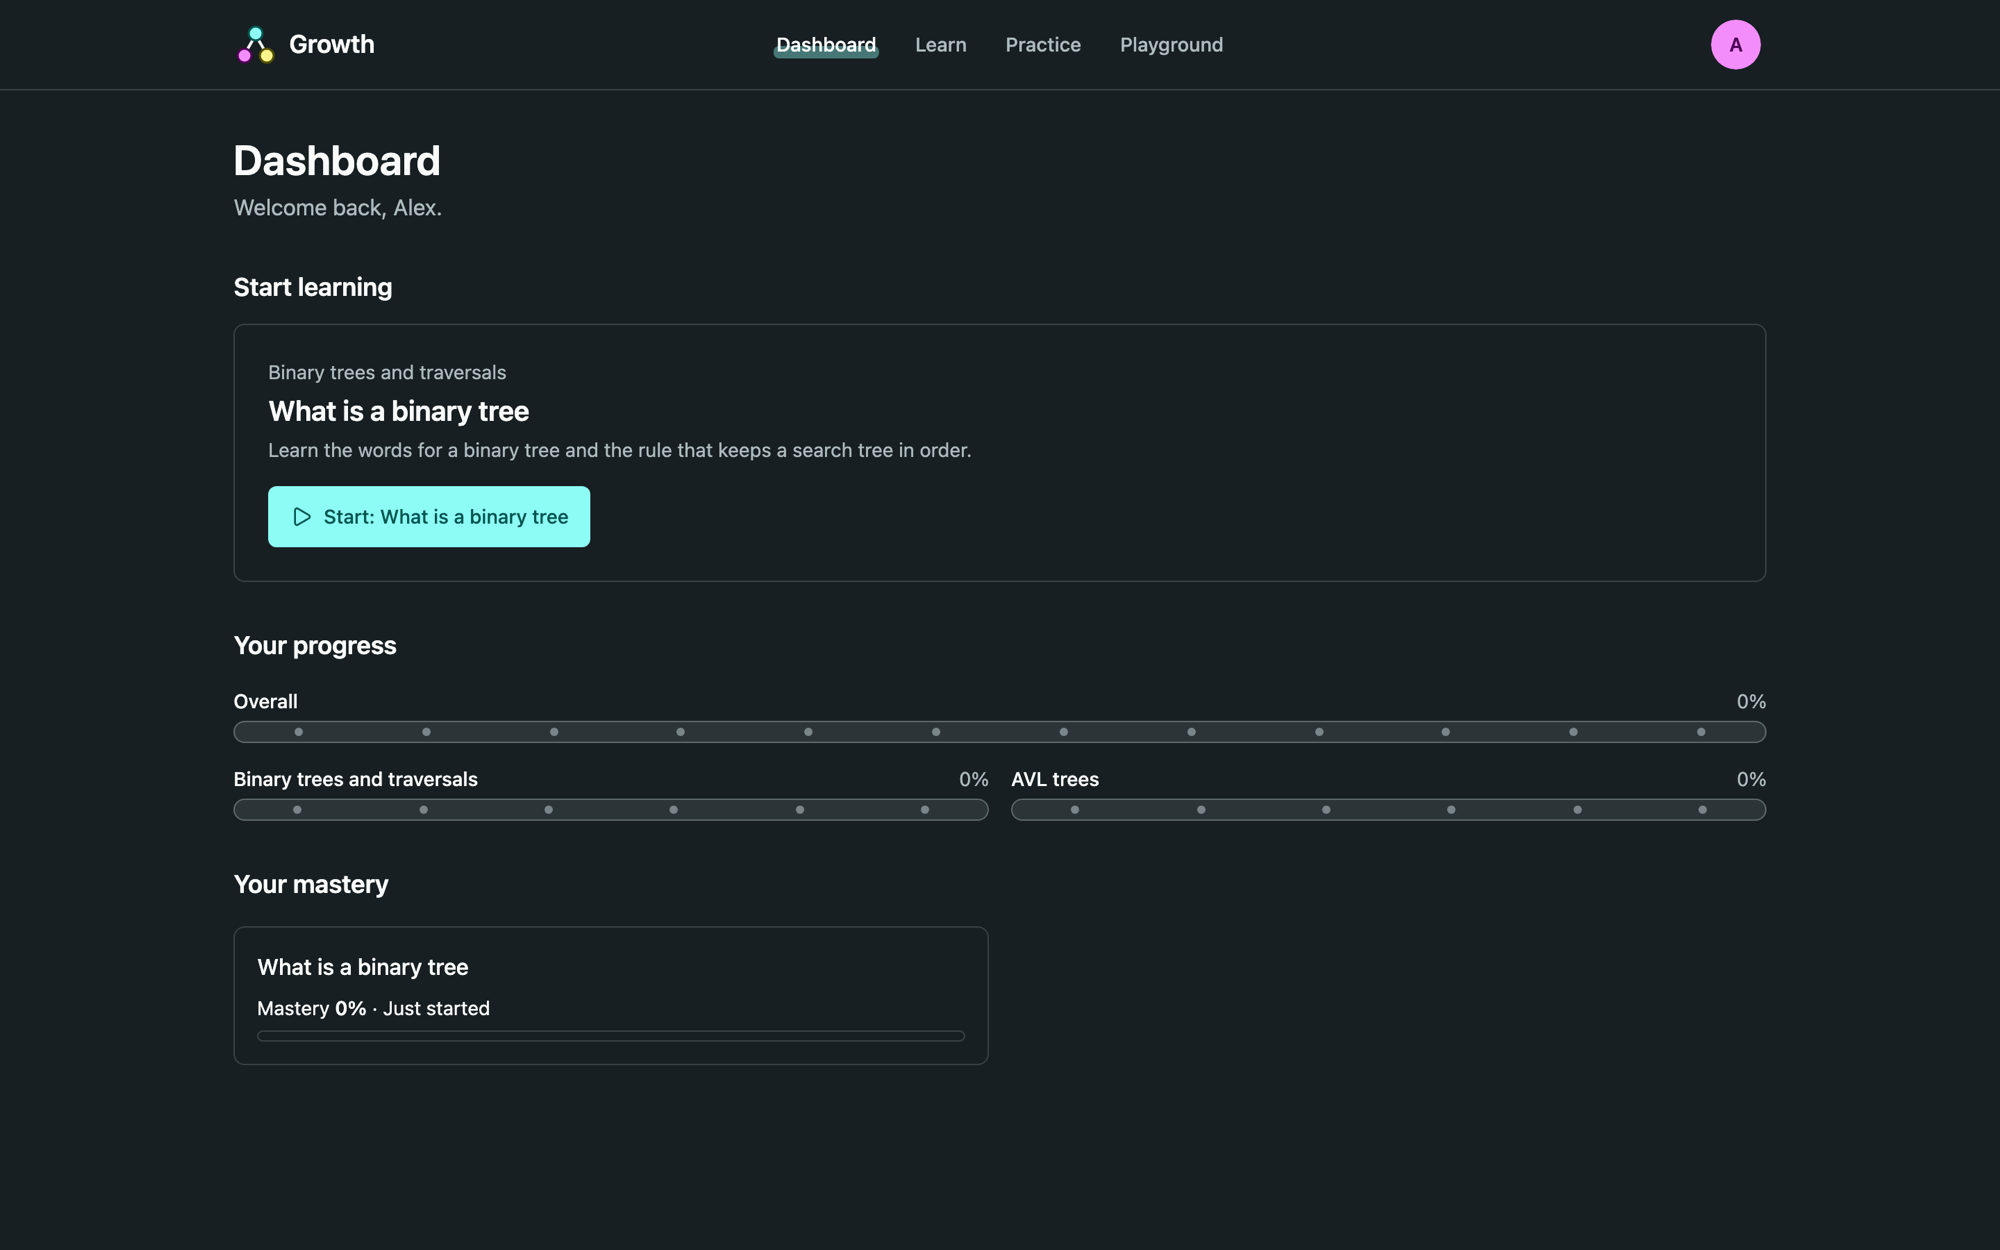
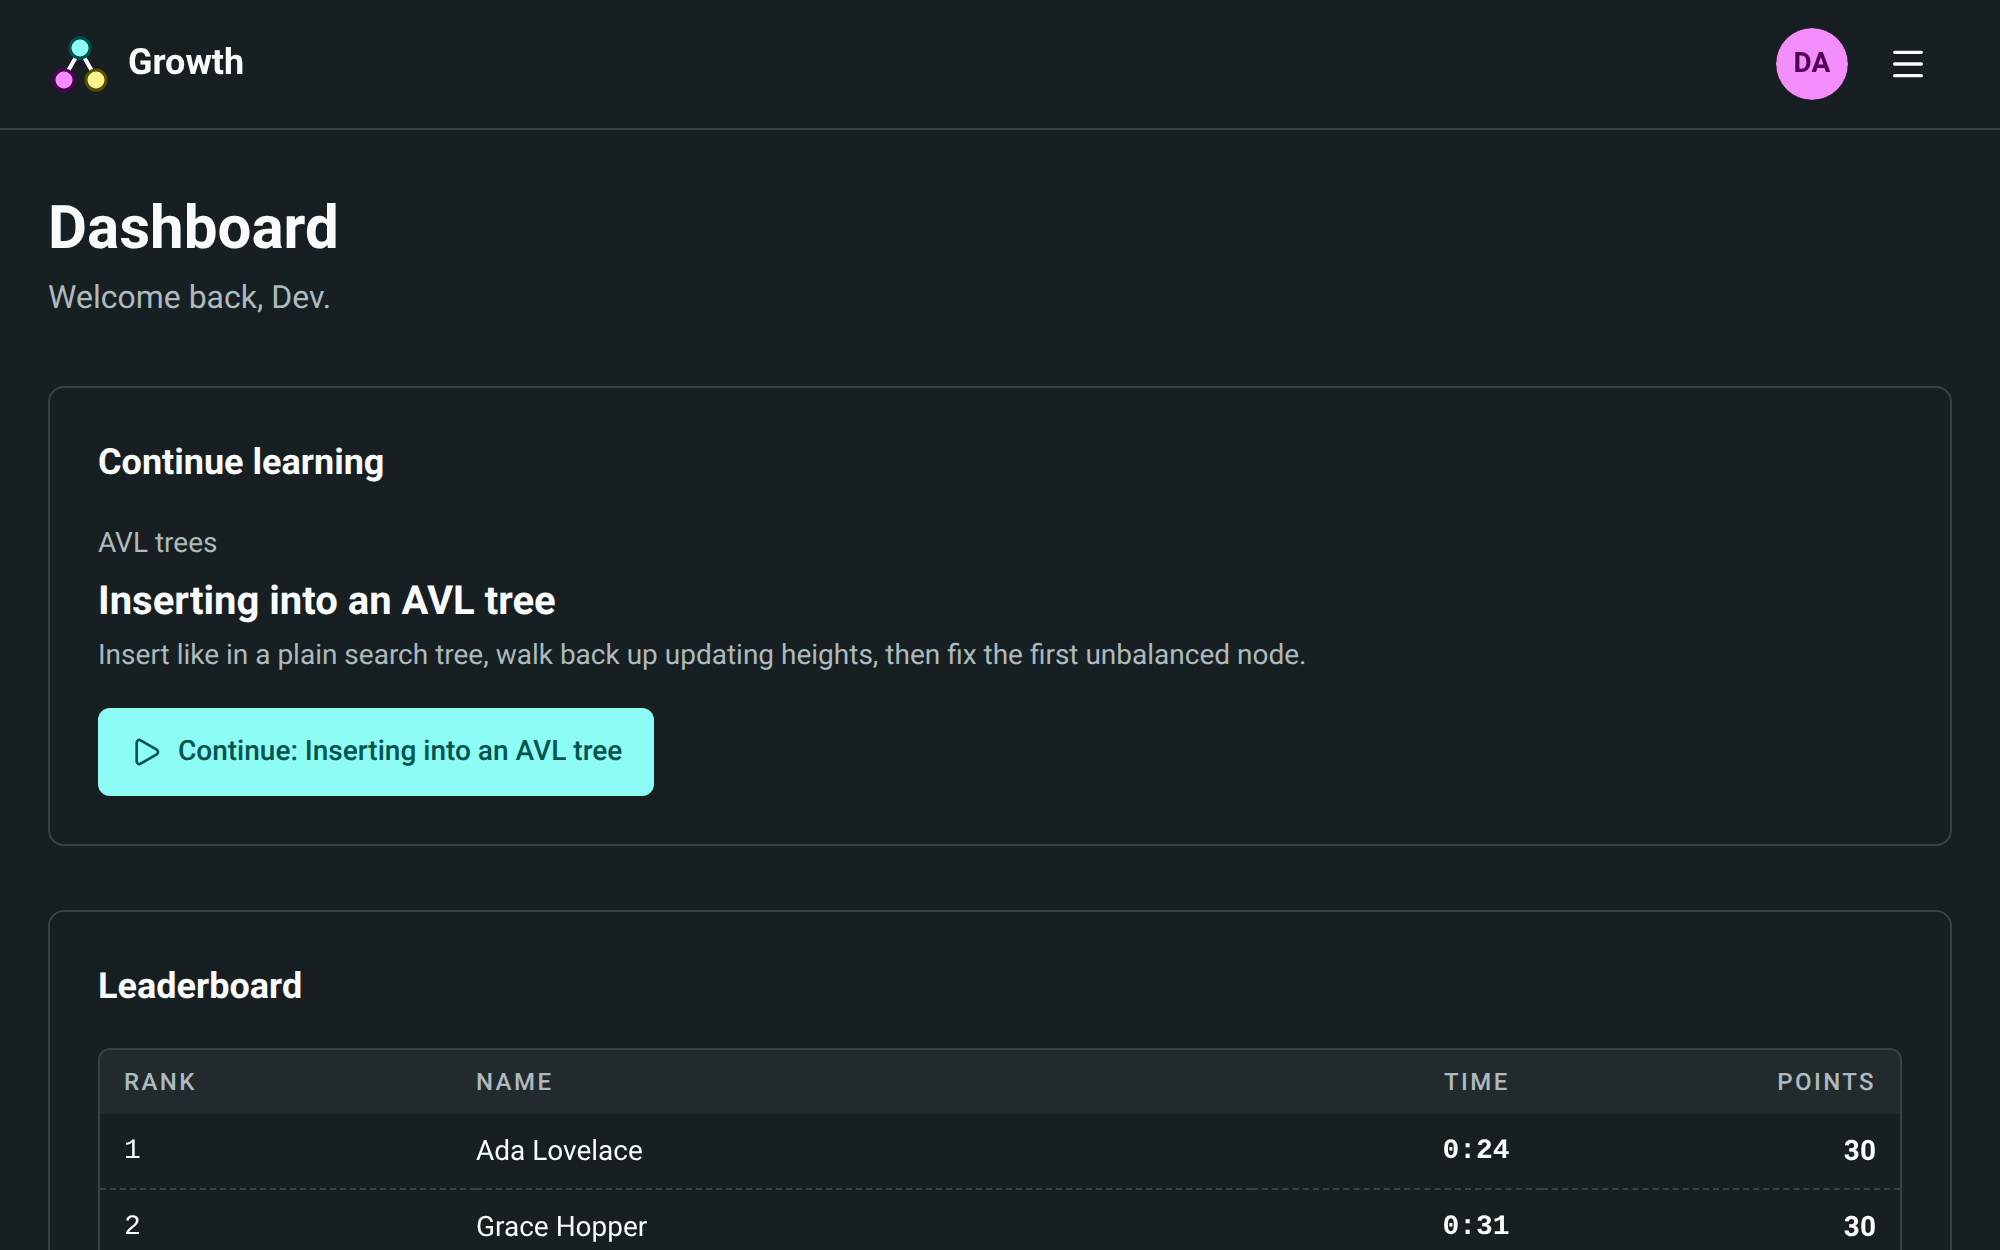
docs: update the dashboard text and screenshots
- describe the new dashboard layout and the leaderboard card
- say the board ranks passed attempts by time taken, then points
- retake the dashboard screenshots for the README, SE and ID documents

diff --git a/docs/src/content/docs/id/development.md b/docs/src/content/docs/id/development.md
@@ -27,6 +27,9 @@ We ran the beta test ourselves. Each of us worked through Growth as if we were a
 | [Daily challenge](../motivation/#daily-challenge-and-leaderboard) with two accounts | After one of us finished the challenge, signing out and in as someone else showed the challenge as done for them too. The app kept the first learner's data in the browser after the switch, and progress and practice could leak the same way | The app now drops everything it has stored for the last learner when they sign out or someone else signs in |
 | [Daily challenge](../motivation/#daily-challenge-and-leaderboard) | There was no way to leave the challenge once it was open | We added a close button, like the one on lesson tests. If the clock is running, it first warns that the clock keeps going and that there is still only one go |
 | [Daily challenge](../motivation/#daily-challenge-and-leaderboard) start screen | The screen said a clock would run, but not that the time only appears on the leaderboard if you turn it on, or that it never affects mastery. Those are the reasons we give for allowing a timer at all | We added a line saying both, with a link to Settings, set out the rules with an icon and words each, and renamed the button "Start the clock" |
+| [Leaderboard](../motivation/#daily-challenge-and-leaderboard) ranking | The board ranked by the time of day a learner finished, not by how long the challenge took, so the quickest learner could sit below someone who simply finished earlier in the day | The board now ranks by time taken, and splits equal times by points. The time column shows the time taken |
+| [Dashboard](../presentation/) daily challenge and leaderboard | The daily challenge card stayed on the dashboard after we had finished it. The leaderboard was a three-line summary that sent us to a separate page | The daily challenge card only shows until the challenge is done. The leaderboard is a scrollable card on the dashboard that always shows, with our own row pinned when we are outside the top 10. The separate page is gone |
+| [Dashboard](../presentation/) layout | The next lesson and the daily challenge each took the full width of the page, and each widget was styled a little differently | The two sit side by side with their buttons lined up, and every widget is now the same card with its title inside it |
 | [Playground](../storyboards/playground/playground/) setup preview | A deep, lopsided random tree grew past the bottom of the preview box and covered the chips that show the traversal order | The preview tree now shrinks to fit its box, however deep it is |
 | [Lesson 8 and 9 tests](../storyboards/lessons/rotations/) | The "which rotation fixes it" questions asked us to insert or delete a key first. Deleting isn't taught until lesson 11, and inserting into an AVL tree isn't taught until lesson 10 | These questions now show a tree that is already out of balance and only ask which rotation fixes it and where. Insert questions start in lesson 10 and delete questions in lesson 11, and a test checks this |
 | [Lesson 8 test](../storyboards/lessons/rotations/) | "What key is the new root?" only described the tree in words, so we had to picture it ourselves | The question now draws the tree before the rotation |

diff --git a/docs/src/content/docs/id/presentation.md b/docs/src/content/docs/id/presentation.md
@@ -23,9 +23,9 @@ We ordered the dashboard by what we think a learner wants first.
 
 The first item on the page is a large card for the next lesson, with a single button to continue with the next lesson. Pressing the button opens the lesson directly, so the learner does not have to go through the Learn page first. This helps reduce the amount of decisions the learner has to make. Hick's law states that the time it takes to make a decision increases with the number of options available (Lau, 2024). Offering one option removes that cost, and the learner can spend their effort on the lesson instead.
 
-![The Growth dashboard on a dark background. A greeting reads "Welcome back, Dev." Under "Continue learning" a card shows the topic "Binary trees and traversals", the lesson "Post-order" and a cyan "Continue: Post-order" button. Under "Your progress" an overall bar reads 25%, with a pink bar for "Binary trees and traversals" at 50% and an empty bar for "AVL trees" at 0%. Under "Your mastery" four cards, What is a binary tree, Pre-order, In-order and Post-order, each show "Mastery 0% · Just started"](../../../assets/id/presentation/dashboard.webp)
+![The Growth dashboard on a dark background. A greeting reads "Welcome back, Dev." A "Continue learning" card shows the topic "AVL trees", the lesson "Inserting into an AVL tree" and a cyan "Continue: Inserting into an AVL tree" button. A "Leaderboard" card holds a table of rank, name, time and points, from Ada Lovelace at 0:24 with 30 points down, and a pinned row at the bottom for the learner, Dev Admin, ranked 14 with 1:46 and 100 points. A "Your progress" card shows an overall bar at 75%, a pink bar for "Binary trees and traversals" at 100% and a yellow bar for "AVL trees" at 50%. A "Your mastery" card lists each unlocked lesson with its mastery, such as "Single rotations" at 41%, "Getting there"](../../../assets/id/presentation/dashboard.webp)
 
-*Figure 2: The dashboard, with the next lesson at the top and progress and mastery below it.*
+*Figure 2: The dashboard, with the next lesson at the top, then the leaderboard, progress and mastery.*
 
 The progress section follows with an overall progress bar broken down into one bar per unit, and each unit bar carries one dot per lesson. This links a percentage back to actual lessons. A learner who sees 50% can count the dots and see that it means two of four lessons, which a percentage on its own does not show.
 

diff --git a/docs/src/content/docs/id/motivation.md b/docs/src/content/docs/id/motivation.md
@@ -62,7 +62,7 @@ Keller also advises avoiding surveillance and avoiding external evaluations wher
 
 ## Daily challenge and leaderboard
 
-A daily challenge gives learners one problem a day. An optional leaderboard ranks that day's attempts by the time taken to finish.
+A daily challenge gives learners one problem a day. An optional leaderboard ranks that day's passed attempts by the time taken to finish. Equal times are split by points. The board is a card on the dashboard, and it stays there once the challenge is done.
 
 This is a deliberate exception to the rules above. A ranking by time is an external evaluation, which Keller's satisfaction strategies advise against, and it brings back the time pressure we kept out of lessons and tests. We think it is still worth having for one kind of learner. Keller's need-matching strategy offers people driven by achievement a chance to meet a standard of excellence "under conditions of moderate risk" (Keller, 1987, p. 4), and a daily challenge with a time fits that. The risk is kept moderate as the learner chooses to appear on the board with "Show me on the leaderboard" in Settings, and is hidden otherwise. The challenge is outside the course content, so a slow time never affects mastery or progress. And the board resets every day.
 

diff --git a/docs/src/content/docs/se/ui.md b/docs/src/content/docs/se/ui.md
@@ -31,9 +31,9 @@ _Figure 8: Onboarding, finding a learning style._
 
 ## Learning
 
-The dashboard acts as the home screen. It shows the learner what their next lesson is. It provides access to the daily challenge and shows the user's overall progress and lesson mastery.
+The dashboard acts as the home screen. It shows the learner what their next lesson is, with the daily challenge next to it until it is done. Below that is the overall progress, then a scrollable leaderboard of the day's fastest times, with the learner's own row pinned if they are outside the top 10, and then lesson mastery. Every section is a card with its title inside it.
 
-![The dashboard: a Continue learning card, a Daily challenge card, progress bars for each unit and a mastery card for each unlocked lesson.](../../../assets/se/ui/dashboard.webp)
+![The dashboard: a Continue learning card, a Leaderboard card with a scrollable list of times and points, progress bars for each unit and the mastery of each unlocked lesson.](../../../assets/se/ui/dashboard.webp)
 
 _Figure 9: Dashboard._
 

diff --git a/README.md b/README.md
@@ -72,7 +72,7 @@ The learning path has 12 lessons:
       An 8-question quiz finds your learning style. You also pick whether code is shown as pseudocode, Java (the language COS212 uses) or Rust, whether lessons are read aloud, and whether you appear on the leaderboard.
     </td>
     <td width="50%" valign="top">
-      <img src=".github/assets/dashboard.png" alt="The dashboard with progress and mastery" />
+      <img src=".github/assets/dashboard.png" alt="The dashboard with the next lesson, the leaderboard, progress and mastery" />
       <h3>Progress and mastery</h3>
       The dashboard picks up where you left off and shows your mastery of each lesson, which checkpoint tests feed into.
     </td>
